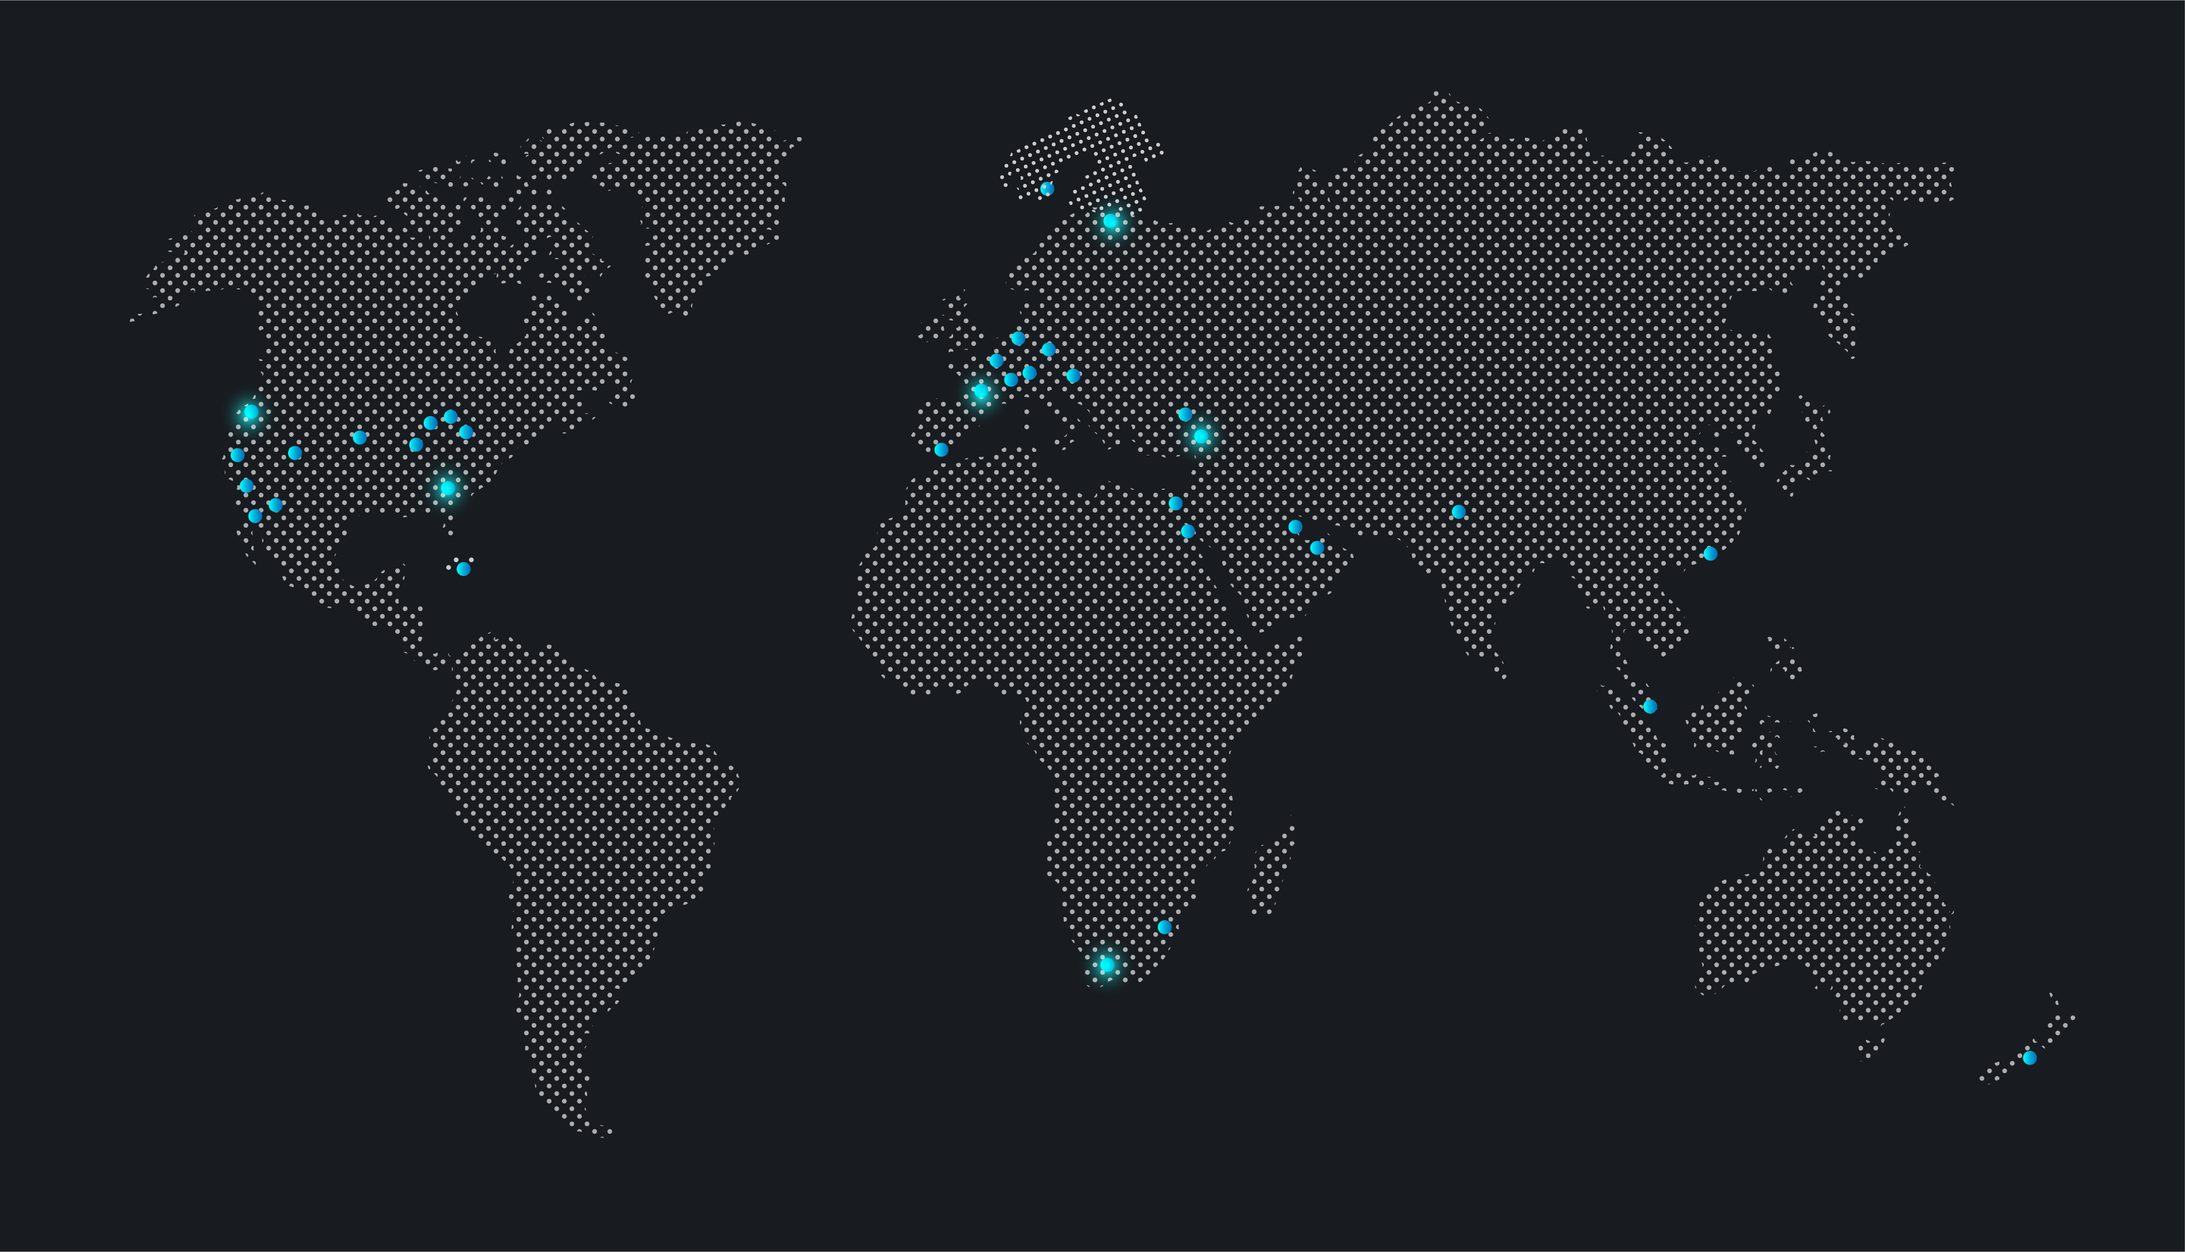
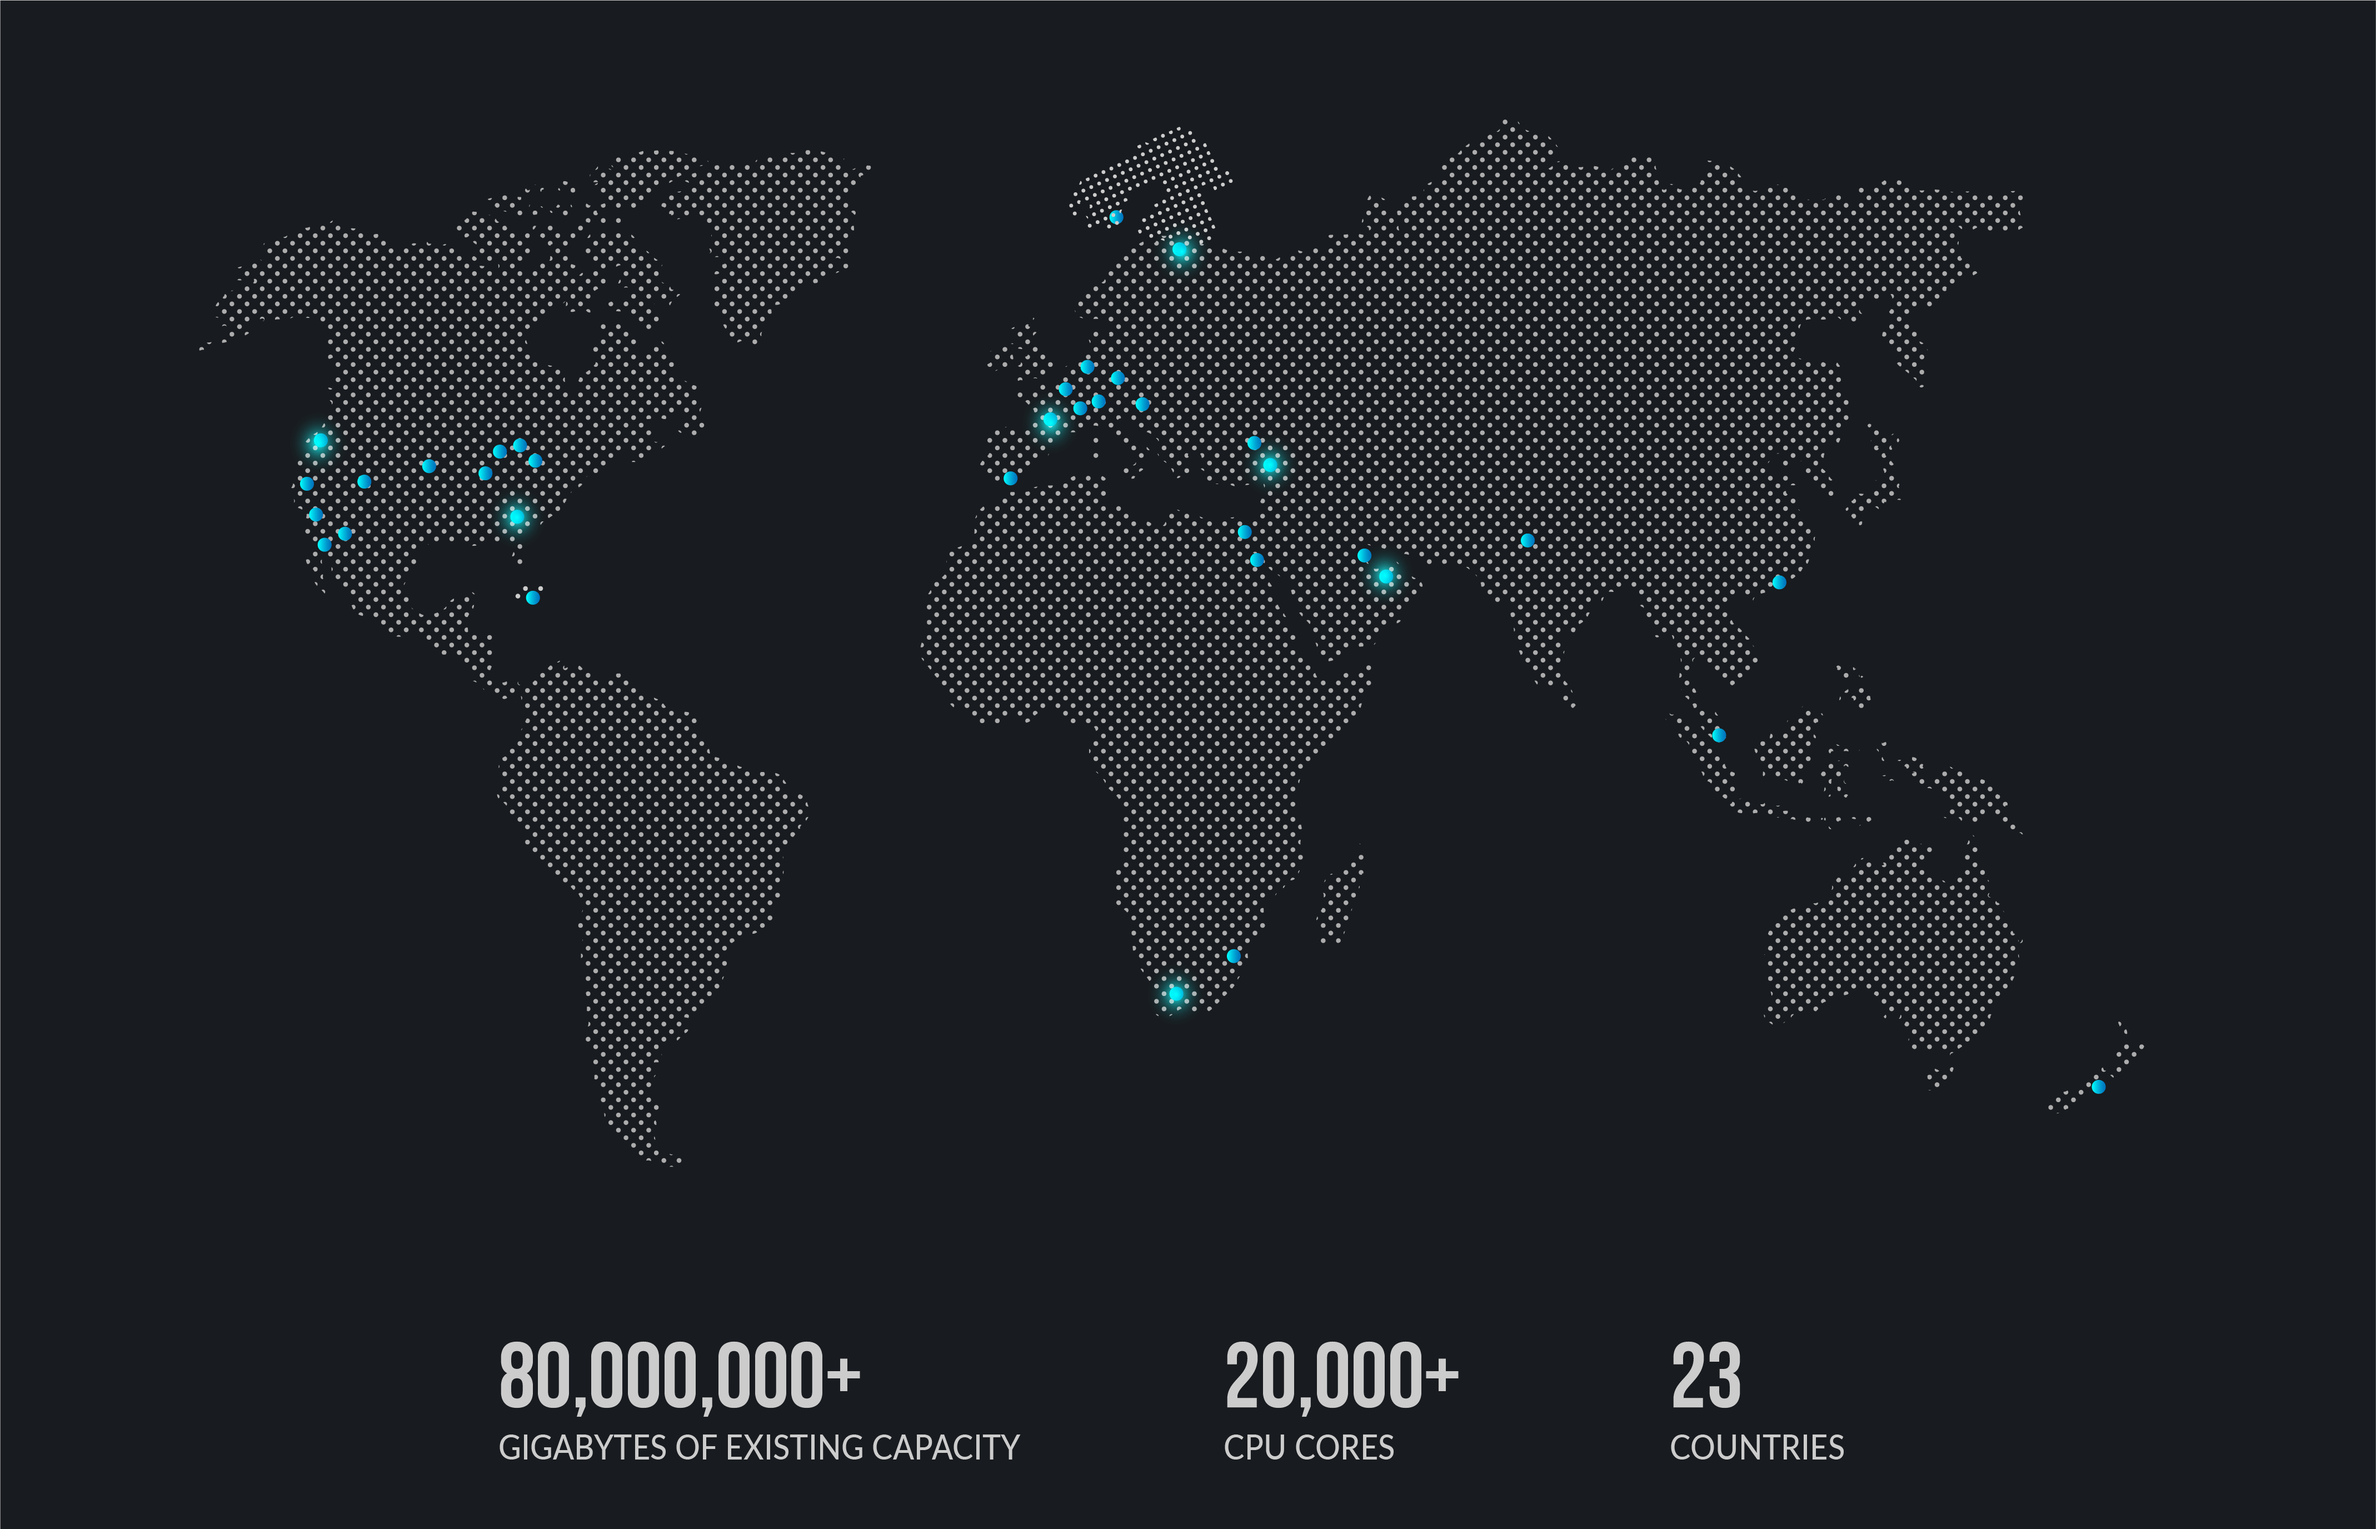
content update - cyber block

diff --git a/src/components/marketing/sections/cta-sections/Header.vue b/src/components/marketing/sections/cta-sections/Header.vue
@@ -3,7 +3,7 @@
     <div class="flex flex-wrap items-center text-center lg:text-left -mx-2">
       <div class="lg:w-1/2 px-2 lg:pr-10 mt-10 lg:mt-0 order-1 lg:order-none">
         <h2
-          class="text-5xl lg:text-8xl mb-6 leading-tight font-semibold font-heading"
+          class="text-6xl lg:text-8xl mb-6 leading-tight font-semibold font-heading"
         >
           {{ title }}
         </h2>

diff --git a/content/page/home/home.md b/content/page/home/home.md
@@ -1,7 +1,7 @@
 ---
 id: home
 header_title: THE CYBERPANDEMIC ERA
-header_image: ./cyber.png
+header_image: ./cyber_3d.png
 header_excerpt: NEVER BEFORE WAS SECURITY SO ESSENTIAL. As the world’s population increasingly moves online amid a global pandemic, cyber attacks have rapidly surged as well. Both companies and individuals now face security risks that can no longer be ignored.
 button: 
 link:
